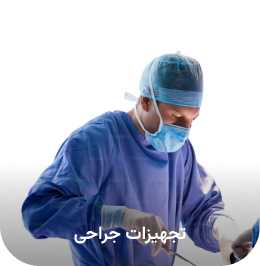
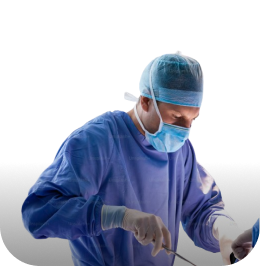
add change language

Changed region(s): [[0.2769, 0.8421, 0.7385, 0.9323]]

diff --git a/templates/inc/navbar.html b/templates/inc/navbar.html
@@ -1,6 +1,10 @@
 {% load static %} {% load i18n %}
 
 <nav class="navbar navbar-expand-lg sidenav" style="padding-top: 0">
+  {% get_current_language as LANGUAGE_CODE %}
+  {% get_language_info for LANGUAGE_CODE as lang %} 
+  {% get_available_languages as LANGUAGES %} 
+  {% get_language_info_list for LANGUAGES as languages %}
   <div class="header">
     <div class="search">
       <button
@@ -52,7 +56,7 @@
                   data-bs-toggle="dropdown"
                   aria-expanded="false"
                 >
-                {% trans "دسته بندی کالاها" %}
+                  {% trans "دسته بندی کالاها" %}
                   <img
                     width="20"
                     height="20"
@@ -65,55 +69,97 @@
                   class="dropdown-menu dropdown-menu-end"
                   aria-labelledby="dropdownMenuButton1"
                 >
-                <div>
-                  <li class="main-category">
-                    <img
-                      width="20"
-                      height="20"
-                      src="https://img.icons8.com/material-rounded/20/sort-down.png"
-                      alt="sort-down"
-                    />
-                    {% trans "البسه" %}
-                  </li>
-                  <li>{% trans "گان جراحی" %}</li>
-                  <li>{% trans "لباس بیمارستانی بیمار" %}</li>
-                </div>
-                <div>
-                  <li class="main-category">
-                    <img
-                      width="20"
-                      height="20"
-                      src="https://img.icons8.com/material-rounded/20/sort-down.png"
-                      alt="sort-down"
-                    />
-                    {% trans "کلاه" %}
-                  </li>
-                  <li>{% trans "کلاه جراح" %}</li>
-                  <li>{% trans "کلاه آکاردئونی" %}</li>
-                  <li>{% trans "کلاه بیمار" %}</li>
-                </div>
-              </ul>
-            </div>
-          </li>
-          <li>{% trans "همه محصولات" %}</li>
-          <li>{% trans "درباره ما" %}</li>
-          <li>{% trans "تخفیفات ویژه" %}</li>
-        </ul>
+                  <div>
+                    <li class="main-category">
+                      <img
+                        width="20"
+                        height="20"
+                        src="https://img.icons8.com/material-rounded/20/sort-down.png"
+                        alt="sort-down"
+                      />
+                      {% trans "البسه" %}
+                    </li>
+                    <li>{% trans "گان جراحی" %}</li>
+                    <li>{% trans "لباس بیمارستانی بیمار" %}</li>
+                  </div>
+                  <div>
+                    <li class="main-category">
+                      <img
+                        width="20"
+                        height="20"
+                        src="https://img.icons8.com/material-rounded/20/sort-down.png"
+                        alt="sort-down"
+                      />
+                      {% trans "کلاه" %}
+                    </li>
+                    <li>{% trans "کلاه جراح" %}</li>
+                    <li>{% trans "کلاه آکاردئونی" %}</li>
+                    <li>{% trans "کلاه بیمار" %}</li>
+                  </div>
+                </ul>
+              </div>
+            </li>
+            <li>{% trans "همه محصولات" %}</li>
+            <li>{% trans "درباره ما" %}</li>
+            <li>{% trans "تخفیفات ویژه" %}</li>
+          </ul>
         </div>
         <div class="offcanvas-footer">
           <div><img src="{% static 'images/Vector.png' %}" /></div>
           <div>
             <img src="{% static 'images/fav.png' %}" alt="favourit" />
           </div>
-          <div>
-            <img src="{% static 'images/lang.png' %}" alt="" />
+
+          <div class="btn-group dropup" id="lang-container">
+            <form
+              style="width: 100%;"
+              name="language"
+              id="lang"
+              action="{% url 'set_language' %}"
+              method="post"
+            >
+              {% csrf_token %}
+              <input name="next" type="hidden" value="{{ redirect_to }}" />
+              <input name="language" type="hidden" />
+              <div
+                class="dropdown-toggle"
+                type="button"
+                id="language"
+                data-bs-toggle="dropdown"
+                data-bs-auto-close="true"
+                aria-expanded="false"
+                style="width: 100%; height: 100%"
+              >
+                <img src="{% static 'images/lang.png' %}" alt="" />
+              </div>
+              <ul class="dropdown-menu" aria-labelledby="defaultDropdown">
+                {% for language in languages %}
+                <li>
+                  <a
+                    class="dropdown-item"
+                    href="#"
+                    onclick=" document.getElementById('lang').children[2].value ='{{language.code}}';
+                      document.getElementById('lang').submit();"
+                    >{{ language.name_local }}</a
+                  >
+                </li>
+                {% endfor %}
+              </ul>
+            </form>
           </div>
           <div><img src="{% static 'images/cart.png' %}" alt="cart" /></div>
         </div>
       </div>
       <div id="logo">
-        <label for="search" class="{% if LANGUAGE_CODE == 'en' %}right19{% endif %}">
-          <input type="text" name="search" placeholder="{% trans 'جستجوی محصولات' %}"/>
+        <label
+          for="search"
+          class="{% if LANGUAGE_CODE == 'en' %}right19{% endif %}"
+        >
+          <input
+            type="text"
+            name="search"
+            placeholder="{% trans 'جستجوی محصولات' %}"
+          />
         </label>
         <img src="{% static 'images/Group.png' %}" alt="logo" />
       </div>
@@ -123,7 +169,8 @@
           <img src="{% static 'images/cart.png' %}" alt="cart" />
         </div>
         <button>
-          {% trans "ورود/ثبت نام" %} <img src="{% static 'images/Vector.png' %}" />
+          {% trans "ورود/ثبت نام" %}
+          <img src="{% static 'images/Vector.png' %}" />
         </button>
         <p>{% trans "درخواست خرید عمده" %}</p>
       </div>
@@ -142,7 +189,7 @@
                   data-bs-toggle="dropdown"
                   aria-expanded="false"
                 >
-                {% trans "دسته بندی کالاها" %}
+                  {% trans "دسته بندی کالاها" %}
                   <img
                     width="15"
                     height="15"
@@ -191,9 +238,7 @@
           </ul>
         </div>
       </div>
-      {% get_current_language as LANGUAGE_CODE %} 
-      {% get_language_info for LANGUAGE_CODE as lang %} {%get_available_languages as LANGUAGES %} 
-      {% get_language_info_list for LANGUAGES as languages %}
+
       <div id="favourit">
         <div class="btn-group" id="lang-container">
           <form
@@ -230,7 +275,6 @@
                   href="#"
                   onclick=" document.getElementById('lang').children[2].value ='{{language.code}}';
                   document.getElementById('lang').submit();"
-
                   >{{ language.name_local }}</a
                 >
               </li>

diff --git a/home/static/css/styles.css b/home/static/css/styles.css
@@ -8,7 +8,11 @@ body {
   background-color: #f9f9f9;
 }
 
-.right19::before{
+.dropup .dropdown-toggle::after{
+  display: none;
+}
+
+.right19::before {
   left: auto !important;
   right: 19px;
 }
@@ -316,7 +320,7 @@ ul#dropdown-side {
   top: 3px;
 }
 
-.menu div#favourit #lang-container{
+.menu div#favourit #lang-container {
   justify-content: space-around;
   width: 30%;
 }
@@ -376,6 +380,57 @@ ul#dropdown-side {
   width: 100%;
   height: 100%;
 }
+
+.banner #offers-banner {
+  position: absolute;
+  z-index: 7;
+  top: 0;
+  right: 0;
+  left: 0;
+  bottom: 0;
+  display: flex;
+  flex-direction: column;
+  justify-content: space-evenly;
+  align-items: center;
+}
+
+.banner #offers-banner h1 {
+  font-size: 40px;
+  font-weight: 700;
+  line-height: 48px;
+  color: #ffffff;
+  width: 35%;
+  text-align: center;
+}
+
+.banner #offers-banner button {
+  display: flex;
+  align-items: center;
+  justify-content: space-around;
+  border-color: #d9d9d9;
+  background-color: #d9d9d9;
+  border-radius: 20px;
+  height: 63px;
+  font-size: 20px;
+  line-height: 31px;
+  font-weight: 700;
+  width: 18%;
+}
+
+.banner #offers-banner button img {
+  width: auto;
+  height: auto;
+}
+
+.categories .category-name {
+  position: absolute;
+  bottom: 5%;
+  font-size: 18px;
+  font-weight: 700;
+  line-height: 28px;
+  color: #ffffff;
+}
+
 .categories h1 {
   color: #009a9b;
   font-size: 30px;
@@ -392,6 +447,7 @@ ul#dropdown-side {
 }
 
 .categories div div {
+  position: relative;
   background: linear-gradient(
     0deg,
     rgba(0, 0, 0, 0.2) 1%,

diff --git a/home/templates/home/home.html b/home/templates/home/home.html
@@ -28,6 +28,13 @@
           class="d-block w-100"
           alt="..."
         />
+        <div id="offers-banner">
+          <h1>جدیدترین تخفیفات در اینجا</h1>
+          <button>
+            مشاهده محصولات
+            <img src="{% static 'images/arrowUL.png' %}" alt="" />
+          </button>
+        </div>
       </div>
     </div>
     <button
@@ -53,11 +60,21 @@
 <div class="categories">
   <h1>دسته بندی محصولات</h1>
   <div>
-    <div id="c-one"><img src="{% static 'images/c-one.png' %}" alt="" /></div>
-    <div id="c-two"><img src="{% static 'images/c-two.png' %}" alt="" /></div>
-    <div id="c-four"><img src="{% static 'images/cat4.png' %}" alt="" /></div>
+    <div id="c-one">
+      <img src="{% static 'images/c-one.png' %}" alt="" />
+      <h2 class="category-name">لباس بیمارستانی</h2>
+    </div>
+    <div id="c-two">
+      <img src="{% static 'images/c-two.png' %}" alt="" />
+      <h2 class="category-name">روپوش پزشکی</h2>
+    </div>
+    <div id="c-four">
+      <img src="{% static 'images/cat4.png' %}" alt="" />
+      <h2 class="category-name">تجهیزات جراحی</h2>
+    </div>
     <div id="c-three">
       <img src="{% static 'images/c-three.png' %}" alt="" />
+      <h2 class="category-name">انواع کلاه</h2>
     </div>
   </div>
 </div>
